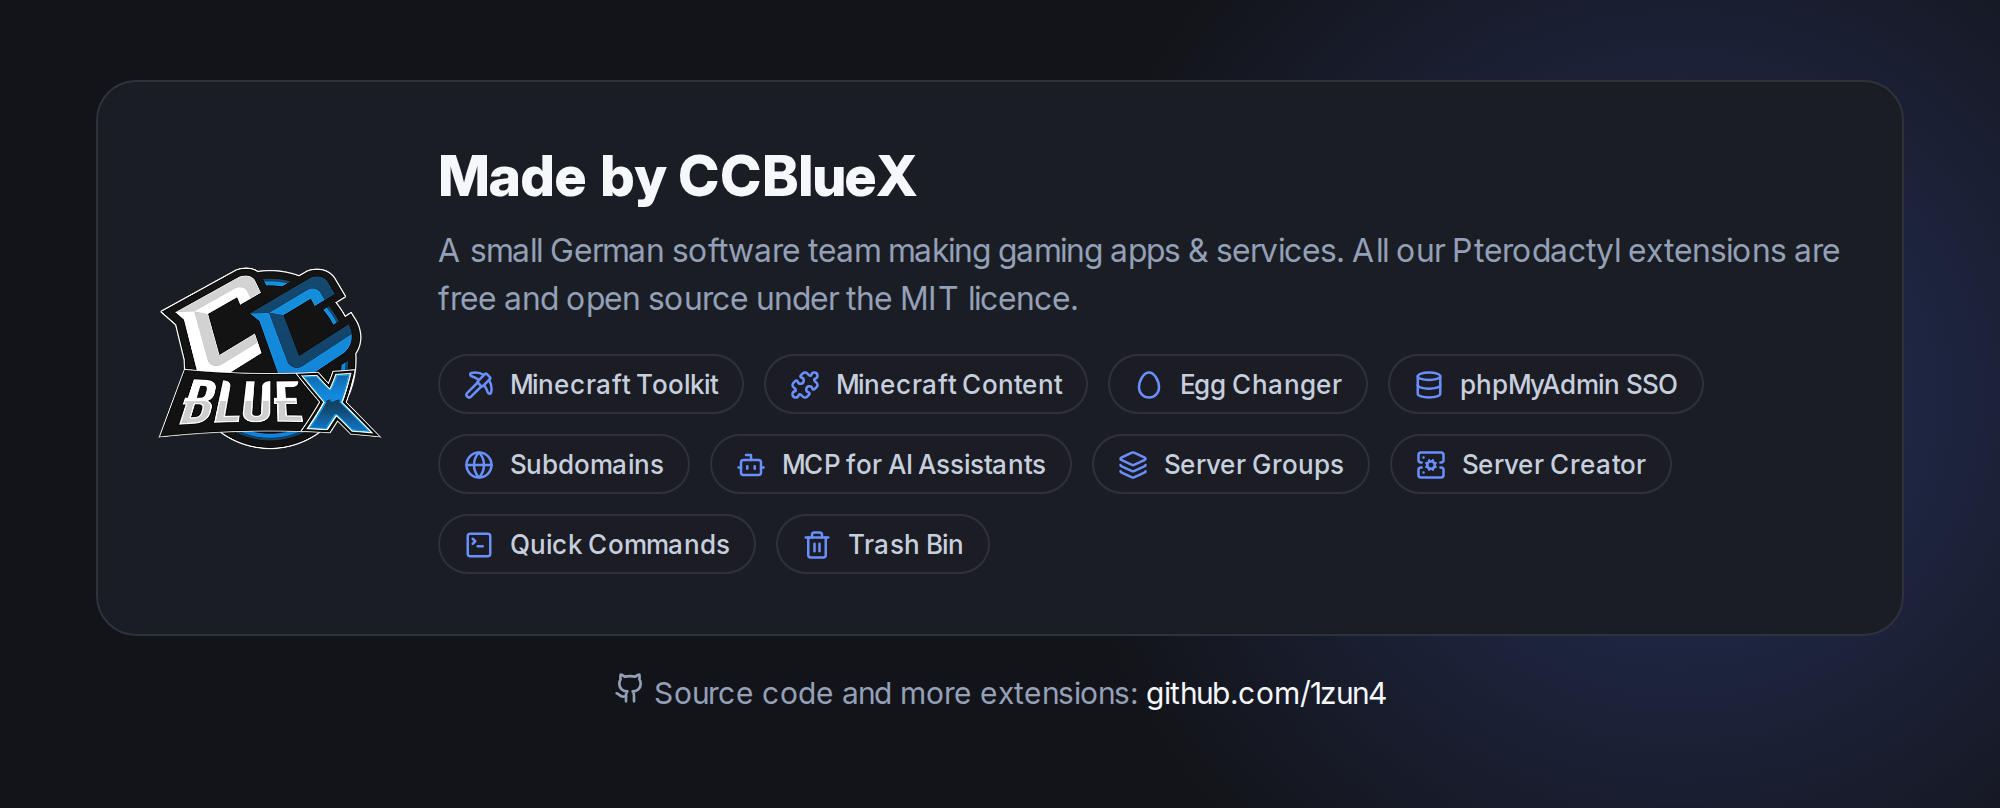
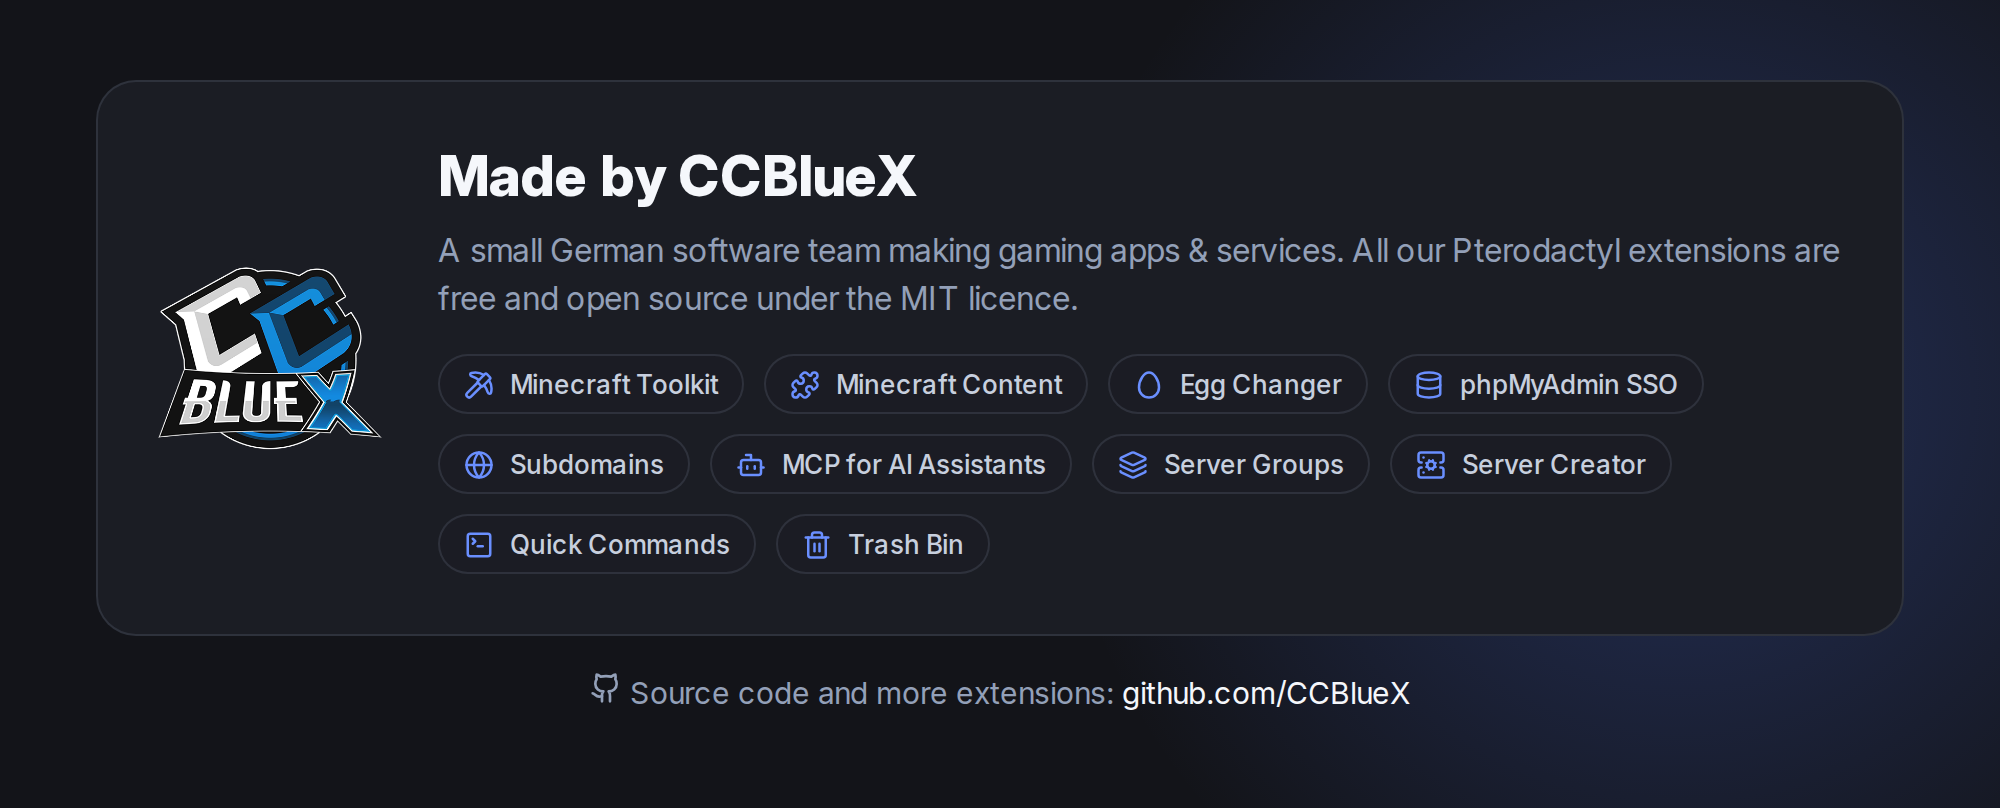
docs: move to ccbluex and hide node hostnames

Changed region(s): [[0.279, 0.8354, 0.713, 0.8973]]

diff --git a/README.md b/README.md
@@ -1,9 +1,9 @@
 # Monitoring for Pterodactyl
 
-[![Release](https://img.shields.io/github/v/release/1zun4/Pterodactyl-Extension-Monitoring?style=flat-square)](https://github.com/1zun4/Pterodactyl-Extension-Monitoring/releases/latest)
-[![Downloads](https://img.shields.io/github/downloads/1zun4/Pterodactyl-Extension-Monitoring/total?style=flat-square)](https://github.com/1zun4/Pterodactyl-Extension-Monitoring/releases)
+[![Release](https://img.shields.io/github/v/release/CCBlueX/Pterodactyl-Extension-Monitoring?style=flat-square)](https://github.com/CCBlueX/Pterodactyl-Extension-Monitoring/releases/latest)
+[![Downloads](https://img.shields.io/github/downloads/CCBlueX/Pterodactyl-Extension-Monitoring/total?style=flat-square)](https://github.com/CCBlueX/Pterodactyl-Extension-Monitoring/releases)
 [![Pterodactyl](https://img.shields.io/badge/Pterodactyl-2.0-0e4688?style=flat-square)](https://pterodactyl.io)
-[![License](https://img.shields.io/github/license/1zun4/Pterodactyl-Extension-Monitoring?style=flat-square)](LICENSE)
+[![License](https://img.shields.io/github/license/CCBlueX/Pterodactyl-Extension-Monitoring?style=flat-square)](LICENSE)
 
 Resource history, alerts and a health page for your panel, nodes and servers.
 
@@ -11,7 +11,7 @@ Resource history, alerts and a health page for your panel, nodes and servers.
 
 ## Install
 
-1. Download `monitoring-<version>.pteroext` from the [latest release](https://github.com/1zun4/Pterodactyl-Extension-Monitoring/releases/latest).
+1. Download `monitoring-<version>.pteroext` from the [latest release](https://github.com/CCBlueX/Pterodactyl-Extension-Monitoring/releases/latest).
 2. Install and enable it under **Admin → Extensions**.
 3. Open a server's **Monitoring** tab. The first samples arrive within 5 minutes.
 
